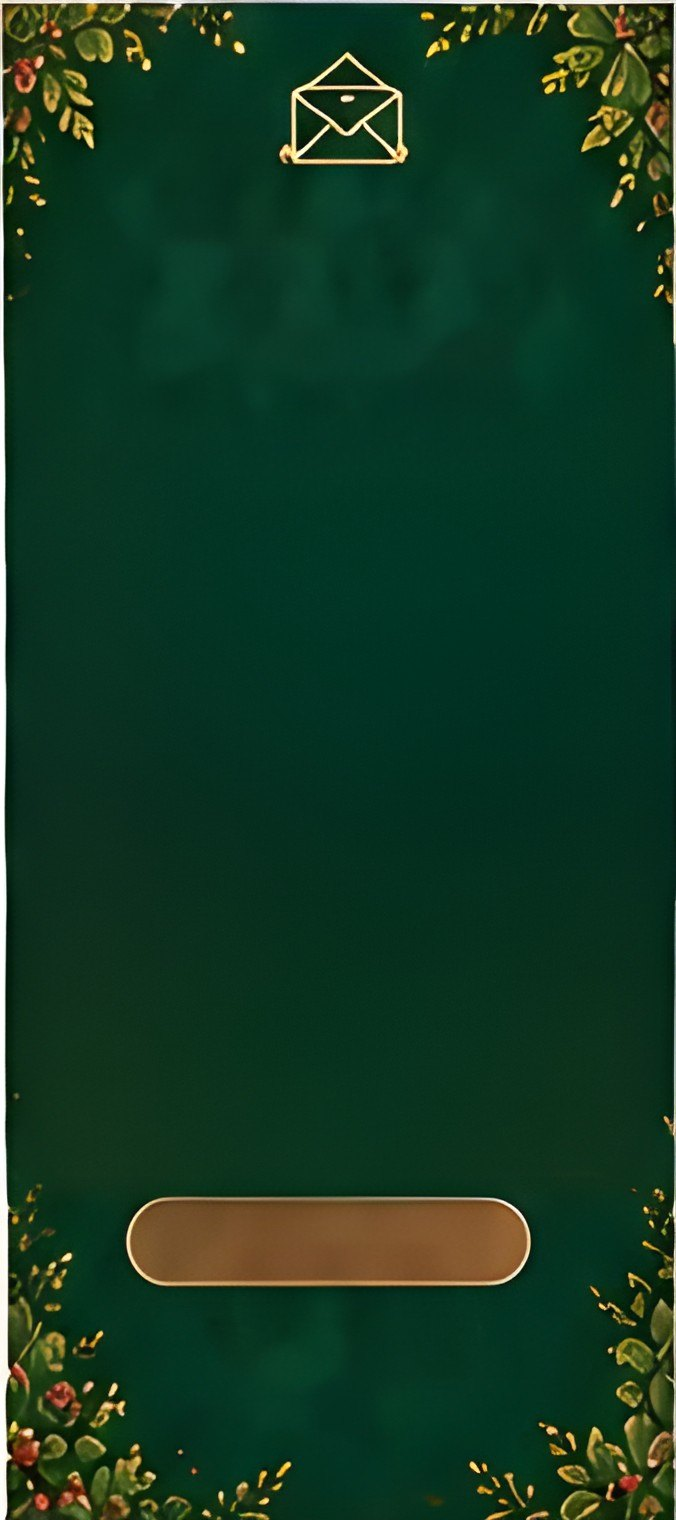
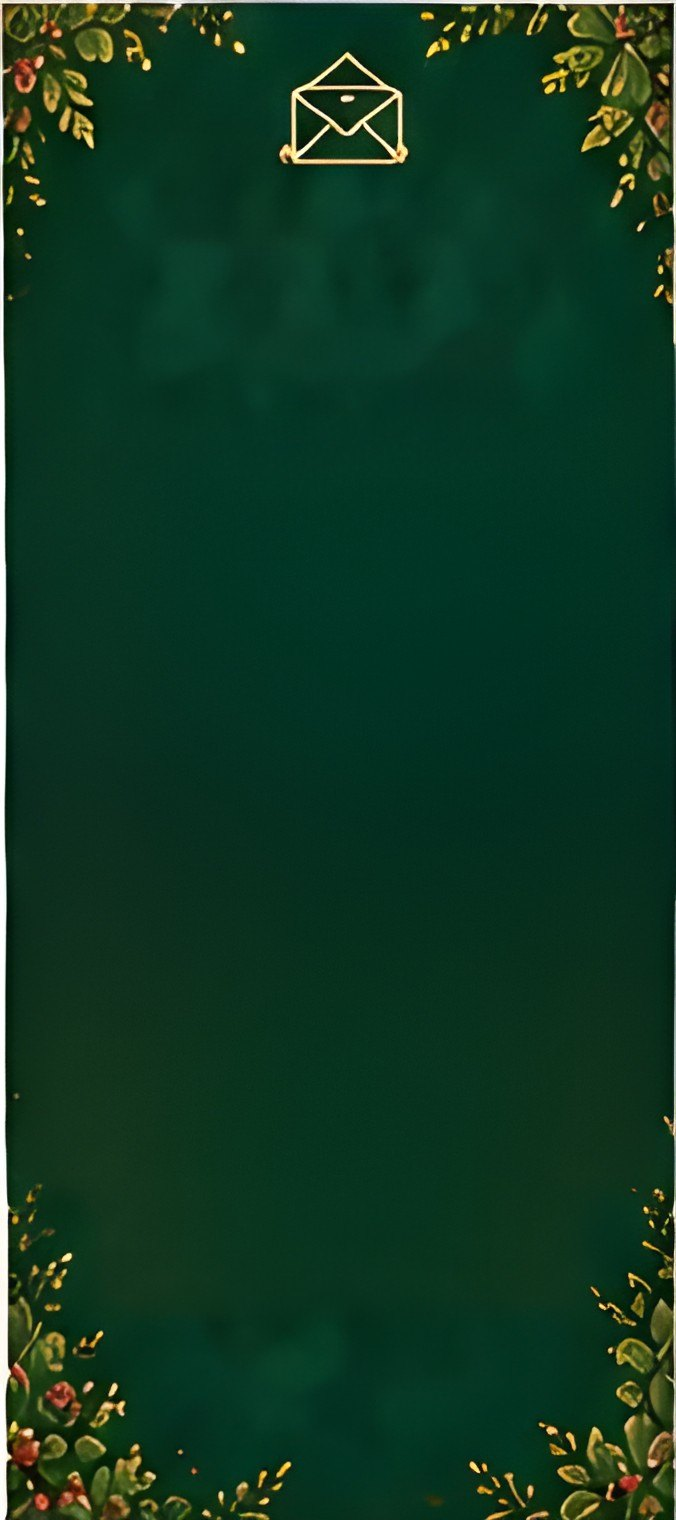
"final spaces"

Changed region(s): [[0.1864, 0.773, 0.8077, 0.8658]]

diff --git a/index.html b/index.html
@@ -25,15 +25,15 @@
 
 <!-- ===================== PAGE 1 · WELCOME ===================== -->
 <section class="panel" style="--w:209; --h:622; --bg:url(images/p1.jpg)">
-  <p class="t caps teal" style="--y:90; --fs:8.6; --lh:1.5">
+  <p class="t caps teal" style="--y:84; --fs:8.6; --lh:1.5">
     Together<br>with our families<br>we cordially invite you to<br>the wedding celebrations of
   </p>
-  <p class="t script sg" style="--y:146; --fs:34">Shreya</p>
-  <p class="t script sg" style="--y:177; --fs:28">&amp;</p>
-  <p class="t script sg" style="--y:207; --fs:34">Naman</p>
-  <svg class="t orn" style="--y:237; --x:64; --tw:81" viewBox="0 0 120 16"><use href="#orn"/></svg>
-  <p class="t caps brown datel" style="--y:256; --fs:10.6">13<sup>th</sup> – 14<sup>th</sup> December 2026</p>
-  <p class="t caps teal" style="--y:281; --fs:8.6; --lh:1.5">Two hearts &nbsp;✦&nbsp; one journey<br>forever</p>
+  <p class="t script sg" style="--y:131; --fs:31">Shreya</p>
+  <p class="t script sg" style="--y:167; --fs:21">&amp;</p>
+  <p class="t script sg" style="--y:201; --fs:31">Naman</p>
+  <svg class="t orn" style="--y:229; --x:64; --tw:81" viewBox="0 0 120 16"><use href="#orn"/></svg>
+  <p class="t caps brown datel" style="--y:246; --fs:10.6">13<sup>th</sup> – 14<sup>th</sup> December 2026</p>
+  <p class="t caps teal" style="--y:268; --fs:8.6; --lh:1.5">Two hearts &nbsp;✦&nbsp; one journey<br>forever</p>
   <div class="t scroll-cue" style="--y:596">
     <svg class="chev" viewBox="0 0 24 22"><path d="M5 3l7 6 7-6M5 9l7 6 7-6M5 15l7 6 7-6"/></svg>
     <p class="caps cr">Scroll to explore</p>
@@ -190,10 +190,10 @@
       <option>1</option><option>2</option><option>3</option><option>4</option>
       <option>5</option><option>6</option><option>7</option><option>8</option>
     </select>
-    <button class="f hit" type="submit" style="--x:31; --y:300; --tw:103; --th:22"><span>Submit RSVP</span></button>
-    <p class="t form-msg cr" style="--y:270; --fs:9.5"></p>
+    <button class="f hit pillbtn" type="submit" style="--x:32; --y:262; --tw:105; --th:23"><span>Submit RSVP</span></button>
+    <p class="t form-msg cr" style="--y:296; --fs:9.5"></p>
   </form>
-  <p class="t script gd" style="--y:345; --fs:19">Thank you!</p>
+  <p class="t script gd" style="--y:322; --fs:19">Thank you!</p>
 </section>
 
 <!-- ===================== PAGE 12 · A LITTLE NOTE (active) ===================== -->

diff --git a/style.css b/style.css
@@ -282,3 +282,10 @@ button.link { border: 0; background: transparent; cursor: pointer; padding: 0; }
 .opt { font-weight: 500; font-style: italic; opacity: .8; }
 
 .t.wrap { white-space: normal; }
+
+/* drawn button (RSVP) – same look as the painted ones */
+.pillbtn {
+  background: linear-gradient(#a06c3a, #7b4b24);
+  border: 1px solid #e2c48a; box-shadow: 0 3px 8px rgba(0,0,0,.35), inset 0 1px 0 rgba(255,255,255,.25);
+}
+.pillbtn:hover, .pillbtn:focus-visible { background: linear-gradient(#b07a44, #87542a); }

diff --git a/script.js b/script.js
@@ -116,7 +116,7 @@ const music = (function () {
     if (!box.isConnected) return;
     const p = document.querySelector(".panel").getBoundingClientRect();
     const u = p.width / 209;
-    const want = p.top + 302 * u;
+    const want = p.top + 290 * u;
     const max = innerHeight - box.offsetHeight - 14;
     box.style.setProperty("--seal-top", Math.max(0, Math.min(want, max)) + "px");
   }
